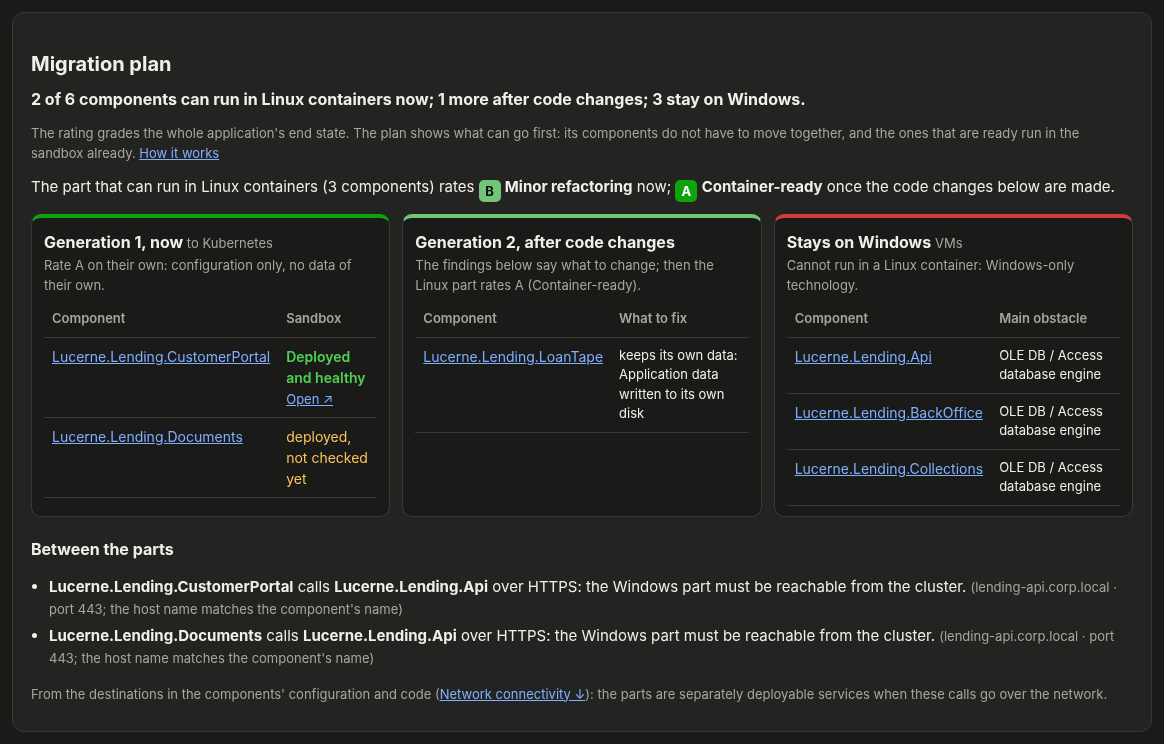
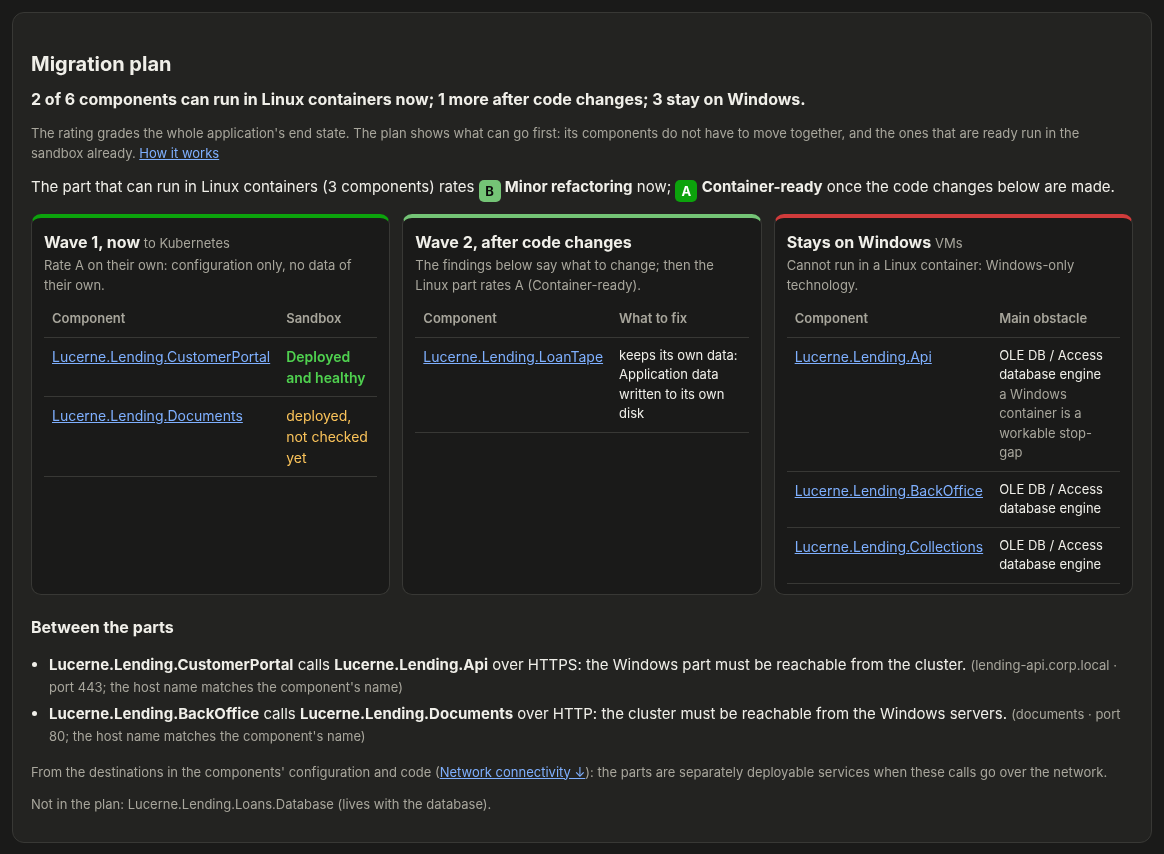
Migration plan: waves, not generations
Claude-Session: https://claude.ai/code/session_01HpAsQd7rFCZs5p2smzdgaB

diff --git a/containerizer/migrationplan.py b/containerizer/migrationplan.py
@@ -3,11 +3,11 @@
 The letter grades the whole application's end state. Its components do not have to move together: an organization
 scan already deploys every component that rates A on its own to the sandbox (org.select_components). The plan shows
 
-- **Generation 1, now**: components that rate A on their own (the same rule as the application rating,
+- **Wave 1, now**: components that rate A on their own (the same rule as the application rating,
   assess.rating_of, on one component), build and run, and are in the sandbox or why not;
-- **Generation 2, after code changes**: components whose findings can be fixed in code (targeted changes, data kept
+- **Wave 2, after code changes**: components whose findings can be fixed in code (targeted changes, data kept
   in external services), and what the part that can run in Linux containers rates once they are fixed;
-- **After a port or rewrite**: components that need a framework port;
+- **Later, after a port or rewrite**: components that need a framework port;
 - **Stays on Windows (VMs)**: components that cannot run in a Linux container, with their main obstacle;
 - **Between the parts**: the calls from one part to the other (connectivity data), so the reader sees what each
   part needs to reach in the other.
@@ -72,7 +72,7 @@ def rating_of(comps: list[dict], state: dict, fixed: tuple = ()) -> str | None:
 
 
 def ready_now(c: dict, state: dict) -> bool:
-    """Generation 1: a server component that rates A on its own and has not failed to build and run (what an
+    """Wave 1: a server component that rates A on its own and has not failed to build and run (what an
     organization scan deploys to the sandbox, org.select_components)."""
     from .assess import rating_of as rate
     return ((c.get("Tier") or "server") == "server" and c.get("VerifyStatus") not in FAILED_VERIFY
@@ -320,20 +320,20 @@ def section(app: dict, ctx: dict | None = None, refactoring_box: bool = False) -
         out.append(txt + ".</p>")
 
     out.append("<div class='gens'>")
-    # generation 1
+    # wave 1
     rows = "".join(f"<tr><td><a href='#c{int(x['c']['ComponentId'])}'>{e(x['c']['ComponentName'])}</a></td>"
                    f"<td>{_sandbox_html(x['sandbox'])}</td></tr>" for x in plan["now"])
-    out.append("<div class='gen g1'><h3>Generation 1, now <span class='muted small'>to Kubernetes</span></h3>"
+    out.append("<div class='gen g1'><h3>Wave 1, now <span class='muted small'>to Kubernetes</span></h3>"
                + (f"<p class='muted small'>Rate A on their own: configuration only, no data of their own.</p>"
                   f"<table><thead><tr><th>Component</th><th>Sandbox</th></tr></thead><tbody>{rows}</tbody></table>"
                   if rows else "<p class='muted'>No component rates A on its own yet.</p>") + "</div>")
-    # generation 2
+    # wave 2
     if plan["after"]:
         link = ("<a href='#refactoring'>Make it A ↓</a> (the Refactoring box) has the LLM make these changes"
                 if refactoring_box else "The findings below say what to change")
         rows = "".join(f"<tr><td><a href='#c{int(c['ComponentId'])}'>{e(c['ComponentName'])}</a></td>"
                        f"<td class='small'>{e(_fixes(c, plan))}</td></tr>" for c in plan["after"])
-        out.append("<div class='gen g2'><h3>Generation 2, after code changes</h3>"
+        out.append("<div class='gen g2'><h3>Wave 2, after code changes</h3>"
                    f"<p class='muted small'>{link}"
                    + (f"; then the Linux part rates {e(plan['linux_after'])} ({e(RATING_TITLE.get(plan['linux_after'], ''))})"
                       if plan["linux_after"] else "") + ".</p>"
@@ -341,7 +341,7 @@ def section(app: dict, ctx: dict | None = None, refactoring_box: bool = False) -
     if plan["port"]:
         rows = "".join(f"<tr><td><a href='#c{int(c['ComponentId'])}'>{e(c['ComponentName'])}</a></td>"
                        f"<td class='small'>{e(_obstacle(c, plan, ('rewrite',)))}</td></tr>" for c in plan["port"])
-        out.append("<div class='gen g3'><h3>After a framework port or rewrite</h3>"
+        out.append("<div class='gen g3'><h3>Later, after a framework port or rewrite</h3>"
                    "<p class='muted small'>Not a targeted change: the component moves to a framework that runs on "
                    "Linux (the migration assistant below lists the replacements).</p>"
                    f"<table><thead><tr><th>Component</th><th>Main obstacle</th></tr></thead><tbody>{rows}</tbody></table></div>")

diff --git a/tests/test_migration_plan.py b/tests/test_migration_plan.py
@@ -80,7 +80,7 @@ def test_rating_of_is_the_application_rule(tmp_path):
         assert rating_of(comps) == AppAssessment(None, comps, [], [], []).rating
 
 
-def test_plan_splits_into_generations():
+def test_plan_splits_into_waves():
     p = mp.build(loans())
     assert [x["c"]["ComponentName"] for x in p["now"]] == ["CustomerPortal", "Documents"]
     assert [c["ComponentName"] for c in p["after"]] == ["LoanTape"]
@@ -97,7 +97,7 @@ def test_plan_splits_into_generations():
     assert states["CustomerPortal"]["state"] == "checked" and states["Documents"]["state"] == "deployed"
 
 
-def test_build_failure_keeps_a_ready_component_out_of_generation_1():
+def test_build_failure_keeps_a_ready_component_out_of_wave_1():
     app = loans()
     app["components"][4]["VerifyStatus"] = "run-failed"
     p = mp.build(app)
@@ -110,7 +110,7 @@ def test_section_on_the_page():
     assert html.index("Main obstacles") < html.index("Migration plan") < html.index("<h2>Components</h2>")
     sec = _plan_html(html)
     assert "2 of 6 components can run in Linux containers now; 1 more after code changes; 3 stay on Windows." in sec
-    assert "Generation 1, now" in sec and "to Kubernetes" in sec and "Generation 2, after code changes" in sec
+    assert "Wave 1, now" in sec and "to Kubernetes" in sec and "Wave 2, after code changes" in sec
     assert "Stays on Windows" in sec and "OLE DB / Access database engine" in sec
     assert "a Windows container is a workable stop-gap" in sec          # Api: WindowsContainerOk
     assert "Deployed and healthy" in sec and "deployed, not checked yet" in sec

diff --git a/containerizer/webui.py b/containerizer/webui.py
@@ -680,7 +680,7 @@ def _a_patch_mark(a: dict) -> str:
 
 def _ready_mark(a: dict) -> str:
     """Next to the rating of an application that is not A: how many of its components can run in Linux containers
-    now (rate A on their own: the first generation of its migration plan), when at least one can."""
+    now (rate A on their own: the first wave of its migration plan), when at least one can."""
     n, total = a.get("ReadyNow") or 0, a.get("PlanComponents") or 0
     if a.get("Rating") == "A" or not n or not total:
         return ""

diff --git a/docs/overview.md b/docs/overview.md
@@ -160,15 +160,15 @@ Later files override earlier rules with the same id; `rules/learned/` is loaded 
 ### Migration plan
 
 The components of an application do not have to move together. The results page of every application that
-does not rate A has a **Migration plan**, right after the main obstacles, that splits it into generations:
+does not rate A has a **Migration plan**, right after the main obstacles, that splits it into waves:
 
-- **Generation 1, now** (to Kubernetes): the server components that rate A on their own (the application rating
+- **Wave 1, now** (to Kubernetes): the server components that rate A on their own (the application rating
   rule applied to the one component: configuration only, no data of their own) and did not fail to build and
   run. These are the components an organization scan deploys to the sandbox, so each shows whether it is there:
   the sandbox check's result, *deployed, not checked yet* (the scan deployed it, no check has a result yet), or
   *not deployed* with why (the application's sandbox is turned off, the scan left it out, or no organization
   scan deploys the application).
-- **Generation 2, after code changes**: components whose findings can be fixed in code (targeted changes, data
+- **Wave 2, after code changes**: components whose findings can be fixed in code (targeted changes, data
   moved to an external service, a failed build or run), with what to fix, and what the part that can run in
   Linux containers rates once they are fixed. Where the page has the Refactoring box,
   [Make it A](refactoring.md#make-it-a) makes these changes.
@@ -183,7 +183,7 @@ does not rate A has a **Migration plan**, right after the main obstacles, that s
 A line at the top sums it up: *2 of 6 components can run in Linux containers now; 1 more after code changes;
 3 stay on Windows.* (or *Nothing runs in a Linux container until the framework port is done.*). The part that can
 run in Linux containers is rated with the same rule as the application (`assess.rating_of`), as it is and with
-the changes made. The front page shows the first generation next to the rating of such an application,
+the changes made. The front page shows the first wave next to the rating of such an application,
 *2/6 ready now*.
 
 ![Migration plan of an application with components that must stay on Windows: two components ready and in the sandbox, one after code changes, three that stay on Windows, and the calls between the parts](images/results-migration-plan.png#only-light){ .cz-shot }

diff --git a/docs/index.md b/docs/index.md
@@ -172,15 +172,15 @@ to change, why, and where to read more. Everything links back to the rule that d
 ### Start with what is ready
 
 An application rated for the parts that must stay on Windows often has components that can run in Linux
-containers today. Its migration plan splits it into generations: what runs now (and is in the sandbox already),
+containers today. Its migration plan splits it into waves: what runs now (and is in the sandbox already),
 what follows after code changes, what stays on Windows, and the calls between the parts.
 
 [Migration plan :octicons-arrow-right-24:](overview.md#migration-plan)
 
 </div>
 
-![Migration plan: generation 1 in the sandbox, generation 2 after code changes, the components that stay on Windows and the calls between the parts](images/results-migration-plan.png#only-light){ .cz-shot }
-![Migration plan: generation 1 in the sandbox, generation 2 after code changes, the components that stay on Windows and the calls between the parts](images/results-migration-plan-dark.png#only-dark){ .cz-shot }
+![Migration plan: wave 1 in the sandbox, wave 2 after code changes, the components that stay on Windows and the calls between the parts](images/results-migration-plan.png#only-light){ .cz-shot }
+![Migration plan: wave 1 in the sandbox, wave 2 after code changes, the components that stay on Windows and the calls between the parts](images/results-migration-plan-dark.png#only-dark){ .cz-shot }
 
 </div>
 

diff --git a/CHANGELOG.md b/CHANGELOG.md
@@ -25,9 +25,9 @@ qcow2 and VHDX images as release assets.
   (loopback HTTPS), it stops at once and says why in `journalctl -u containerizer-kubemg-sandbox`, instead of retrying
   every 5 seconds for 10 minutes (a `tls: bad record MAC` line in kubemg's log each time) and starting over.
 - **Migration plan** on the results page of every application that does not rate A, right after the main
-  obstacles: its components in generations. *Generation 1, now*: the components that rate A on their own, with
+  obstacles: its components in waves. *Wave 1, now*: the components that rate A on their own, with
   whether each is in the sandbox (the check's result, "deployed, not checked yet", or "not deployed" and why: the
-  application's sandbox is off, the scan left it out). *Generation 2, after code changes*: what to fix (pointing
+  application's sandbox is off, the scan left it out). *Wave 2, after code changes*: what to fix (pointing
   to Make it A where the page has it) and what the part that can run in Linux containers rates once it is fixed
   (the application rating rule, `assess.rating_of`). *After a framework port*, *Stays on Windows (VMs)* with the
   main obstacle, and *Between the parts*: the calls from one part to the other from the connectivity data. A

diff --git a/docs/refactoring.md b/docs/refactoring.md
@@ -167,7 +167,7 @@ move of that data to SQL Server (the same guidance as **Make it stateless**). It
 product owners, with the queue's estimate), or **Make it A: every B application** for administrators (below). A scan
 never orders one by itself.
 
-The results page's [migration plan](overview.md#migration-plan) points here from its second generation: the
+The results page's [migration plan](overview.md#migration-plan) points here from its second wave: the
 components that rate A once their code changes are made. For an application with components that cannot run in
 a Linux container (no Refactoring box), the plan lists the same changes with the findings to make them by hand,
 and shows the components that are ready already in the sandbox.
